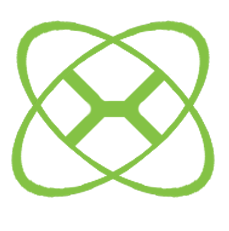
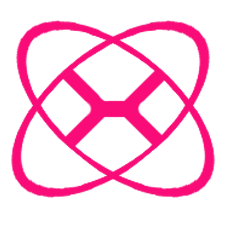
更换主题，添加Vue.use功能

Changed region(s): [[0.0306, 0.0909, 0.9476, 0.8788]]

diff --git a/x-design/src/xdesign/button/XButton.vue b/x-design/src/xdesign/button/XButton.vue
@@ -6,7 +6,7 @@
 </template>
 <script>
 export default {
-    name: 'xbutton',
+    name: 'XButton',
     props: {
         s: {
             default: false,
@@ -49,7 +49,7 @@ export default {
     padding: 10px 16px;
     border-radius: 10px;
     font-size: 16px;
-    background-color: rgb(132, 194, 69);
+    background-color: rgb(251, 114, 153);
     color: #fff;
     border: none;
     cursor: pointer;
@@ -85,13 +85,13 @@ export default {
 
 .bd {
     background-color: transparent;
-    border: 1px solid rgb(132, 194, 69);
-    color: rgb(132, 194, 69);
+    border: 1px solid rgb(251, 114, 153);
+    color: rgb(251, 114, 153);
 }
 
 .primary {
     // 主要颜色
-    background-color: rgb(132, 194, 69);
+    background-color: rgb(251, 114, 153);
 }
 
 .success {

diff --git a/x-design/src/views/AboutView.vue b/x-design/src/views/AboutView.vue
@@ -89,8 +89,9 @@
   </div>
 </template>
 <script>
-import XButton from '@/xdesign/button/XButton.vue'
-import XIcon from '@/xdesign/icon/XIcon.vue'
+// Vue.use了，不再需要引入
+// import XButton from '@/xdesign/button/XButton.vue'
+// import XIcon from '@/xdesign/icon/XIcon.vue'
 
 export default {
   name: 'AboutView',
@@ -102,11 +103,11 @@ export default {
       warn: "warn",
       danger: "danger",
     }
-  },
-  components: {
-    XButton,
-    XIcon
   }
+  // components: {
+  //   XButton,
+  //   XIcon
+  // }
 }
 </script>
 
@@ -122,7 +123,7 @@ h4 {
 }
 
 section {
-  border: 1px solid rgba(132, 194, 69, 0.452);
+  border: 1px solid rgb(251, 114, 153, 0.452);
   padding: 10px;
   border-radius: 10px;
   margin: 10px 0;

diff --git a/x-design/src/xdesign/icon/XIcon.vue b/x-design/src/xdesign/icon/XIcon.vue
@@ -4,7 +4,7 @@
 <script>
 import '../css/aliIcon/iconfont.css'
 export default {
-    name: 'xicon',
+    name: 'XIcon',
     props: {
         icon: {
             default: "",
@@ -15,7 +15,7 @@ export default {
         // 根据传入的内容,添加对应的类名,渲染标签
         // 如何传入 x-icon-win8 //渲染为icon-win8
         // 拿掉前2位
-        console.log(this.icon);
+        // console.log(this.icon);
         if (this.icon) {
             this.$refs.i.classList.add('iconfont', this.icon.slice(2));
         }
@@ -29,6 +29,6 @@ export default {
 }
 
 .x-icon:hover {
-    color: rgb(132, 194, 69);
+    color: rgb(251, 114, 153);
 }
 </style>

diff --git a/x-design/src/xdesign/index.js b/x-design/src/xdesign/index.js
@@ -1,0 +1,22 @@
+import XButton from './button/XButton.vue'
+import XIcon from './icon/XIcon.vue'
+
+// 将每个组件放入数据里面
+const components = [
+    XButton,
+    XIcon
+]
+// 使用install方法
+const install = (Vue) => {
+    // 遍历注册
+    components.forEach(component => {
+        Vue.component(component.name, component);
+    });
+}
+
+// 换个代名词
+const XDesign = {
+    install
+}
+
+export default XDesign

diff --git a/x-design/src/main.js b/x-design/src/main.js
@@ -3,9 +3,10 @@ import App from './App.vue'
 import router from './router'
 import store from './store'
 import '@/assets/aliIcon/iconfont'
+import XDesign from './xdesign'
 
 Vue.config.productionTip = false
-
+Vue.use(XDesign)
 new Vue({
   router,
   store,

diff --git a/x-design/src/components/HelloWorld.vue b/x-design/src/components/HelloWorld.vue
@@ -19,6 +19,6 @@ export default {
 <!-- Add "scoped" attribute to limit CSS to this component only -->
 <style scoped lang="less">
 span {
-  color: rgb(132, 194, 69);
+  color: rgb(251, 114, 153);
 }
 </style>

diff --git a/x-design/src/App.vue b/x-design/src/App.vue
@@ -25,7 +25,7 @@ nav {
     color: #2c3e50;
 
     &.router-link-exact-active {
-      color: rgb(132, 194, 69);
+      color: rgb(251, 114, 153);
     }
   }
 }

diff --git a/blog/日志记录.md b/blog/日志记录.md
@@ -2,17 +2,24 @@
 ## 日志表格
 |日期时间|更新内容|特别描述|
 | :---: | :---: | :---: |
+|2023-07-14 11：00|更换主题，Vue.use功能||
 |2023-07-13 20：51|添加按钮组件和ICON组件||
 |2023-07-13 15：39|初始化项目||
 
 ## 日志描述
 |日期时间|描述|
 | :---: | :--- |
-|2023-07-13 20：51|添加按钮组件和ICON组件，模仿element-ui, 使用的iconfont的字体库||
+|2023-07-14 11：00|更换主题，更新index文件，使用install里遍历注册和别名导出，完成Vue.use功能|
+|2023-07-13 20：51|添加按钮组件和ICON组件，模仿element-ui 使用的iconfont的字体库|
 |2023-07-13 15：39|更新ico图标，logo图标，规定主体颜色，提交仓库|
 
 
 ## 最新效果图
+- **2023-07-14 11：00**
+
+<img src="./mdImg/theme-main.png">
+<img src="./mdImg/theme-test.png">
+
 - **2023-07-13 20：51**
 
 <img src="./mdImg/button+icon.png">
